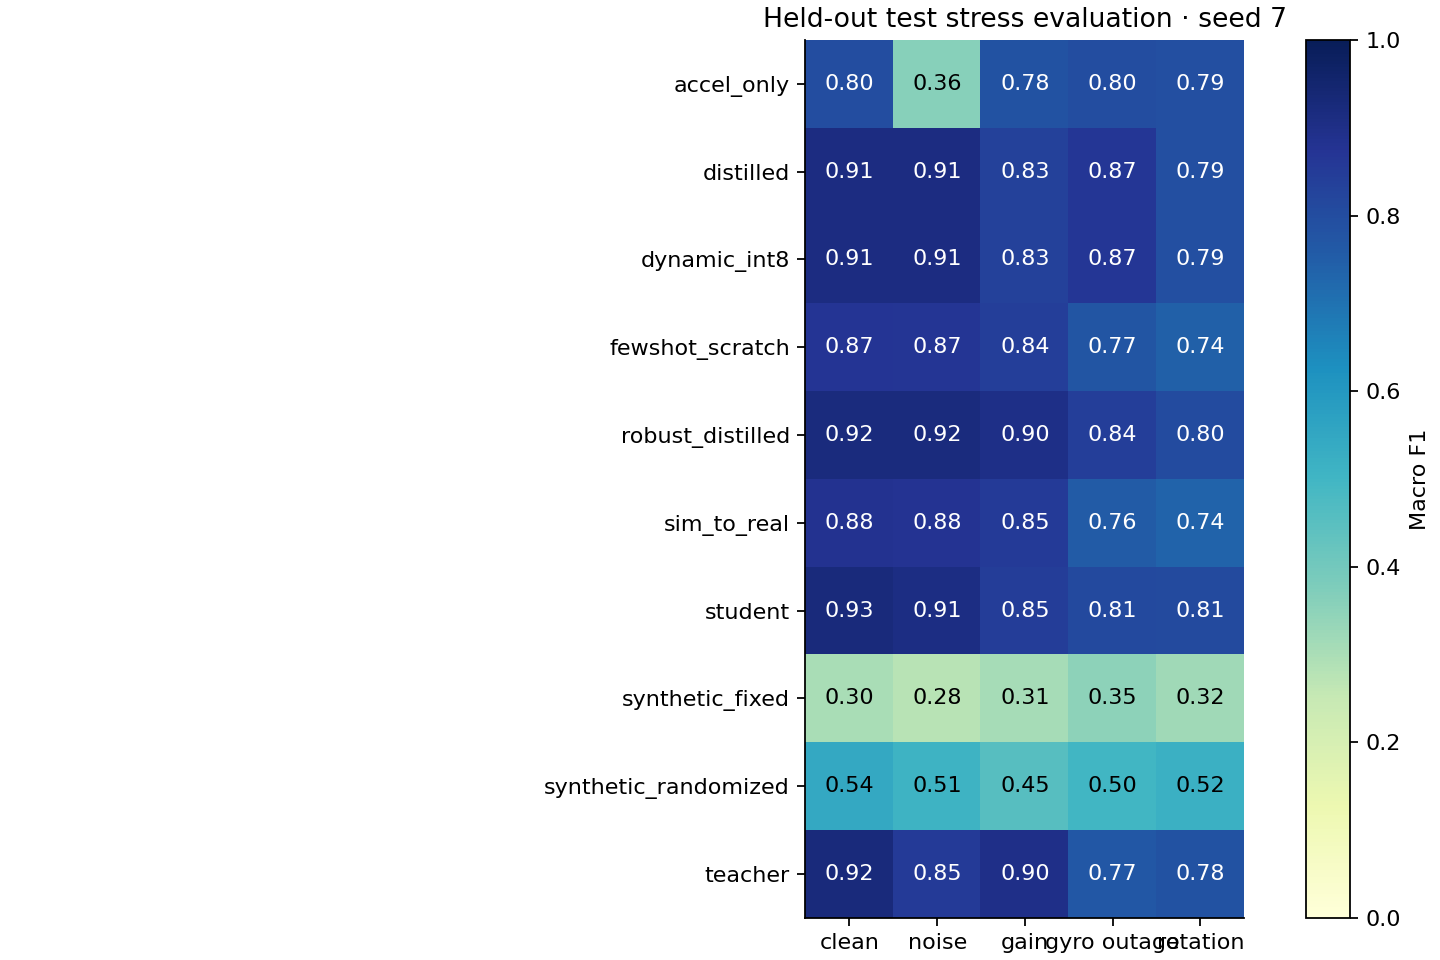
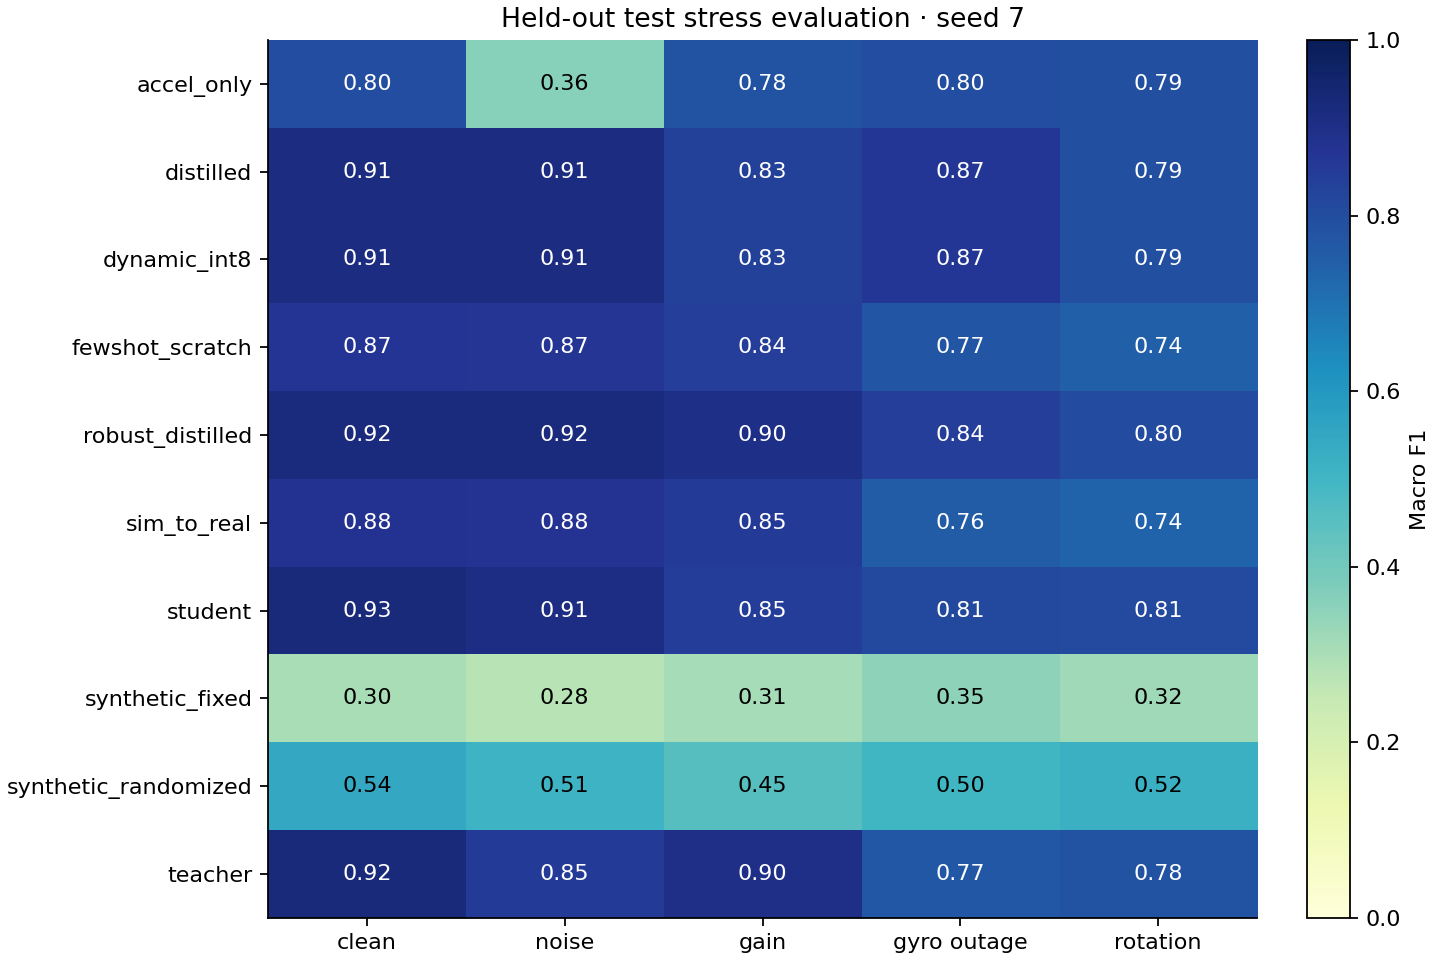
Improve held-out robustness figure layout

diff --git a/src/edge_agent_lab/reporting.py b/src/edge_agent_lab/reporting.py
@@ -209,7 +209,7 @@ def _plots(rows, tests, telemetry, output):
             for _, r in subset
         ]
         fig, ax = plt.subplots(figsize=(9, 6), layout="constrained")
-        im = ax.imshow(values, vmin=0, vmax=1, cmap="YlGnBu")
+        im = ax.imshow(values, vmin=0, vmax=1, cmap="YlGnBu", aspect="auto")
         ax.set_xticks(range(5), ["clean", "noise", "gain", "gyro outage", "rotation"])
         ax.set_yticks(range(len(subset)), [n.split("/")[1] for n, _ in subset])
         for i, row in enumerate(values):
